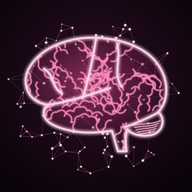
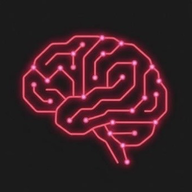
Icono: cerebro de neón rosa
Claude-Session: https://claude.ai/code/session_01CUUc1FXT7RVjJewpAbfE9Q

diff --git a/index.html b/index.html
@@ -9,7 +9,7 @@
 <meta name="apple-mobile-web-app-title" content="Sinapsis">
 <meta name="theme-color" content="#F8F2F6" media="(prefers-color-scheme: light)">
 <meta name="theme-color" content="#130F15" media="(prefers-color-scheme: dark)">
-<link rel="apple-touch-icon" href="apple-touch-icon.png?v=2">
+<link rel="apple-touch-icon" href="apple-touch-icon.png?v=3">
 <link rel="icon" type="image/png" href="icon-192.png">
 <link rel="manifest" href="manifest.json">
 <style>:root{color-scheme:light;padding-top:env(safe-area-inset-top,0px);padding-bottom:env(safe-area-inset-bottom,0px)}body{margin:0;font:14px system-ui,sans-serif}img{max-width:100%}[hidden]{display:none!important}
